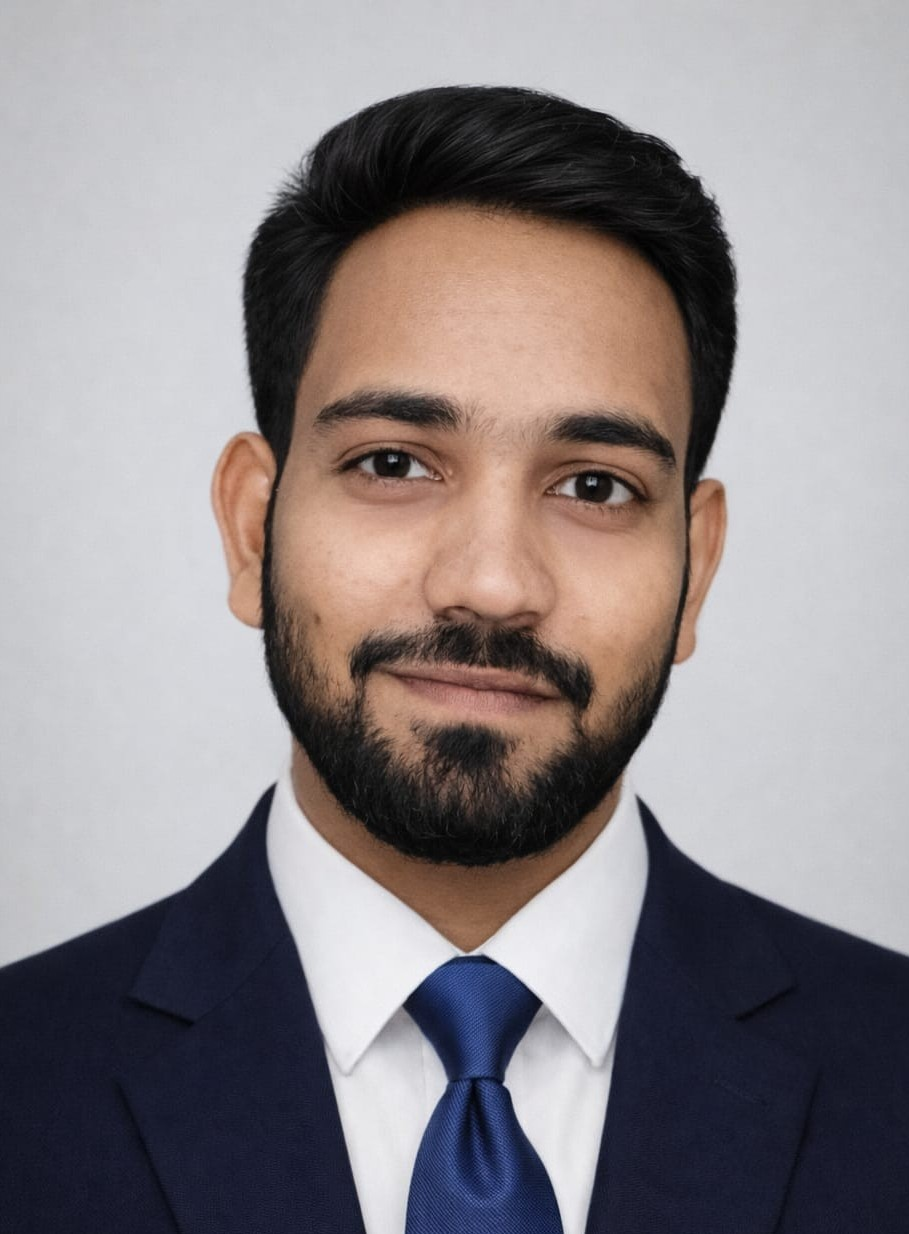
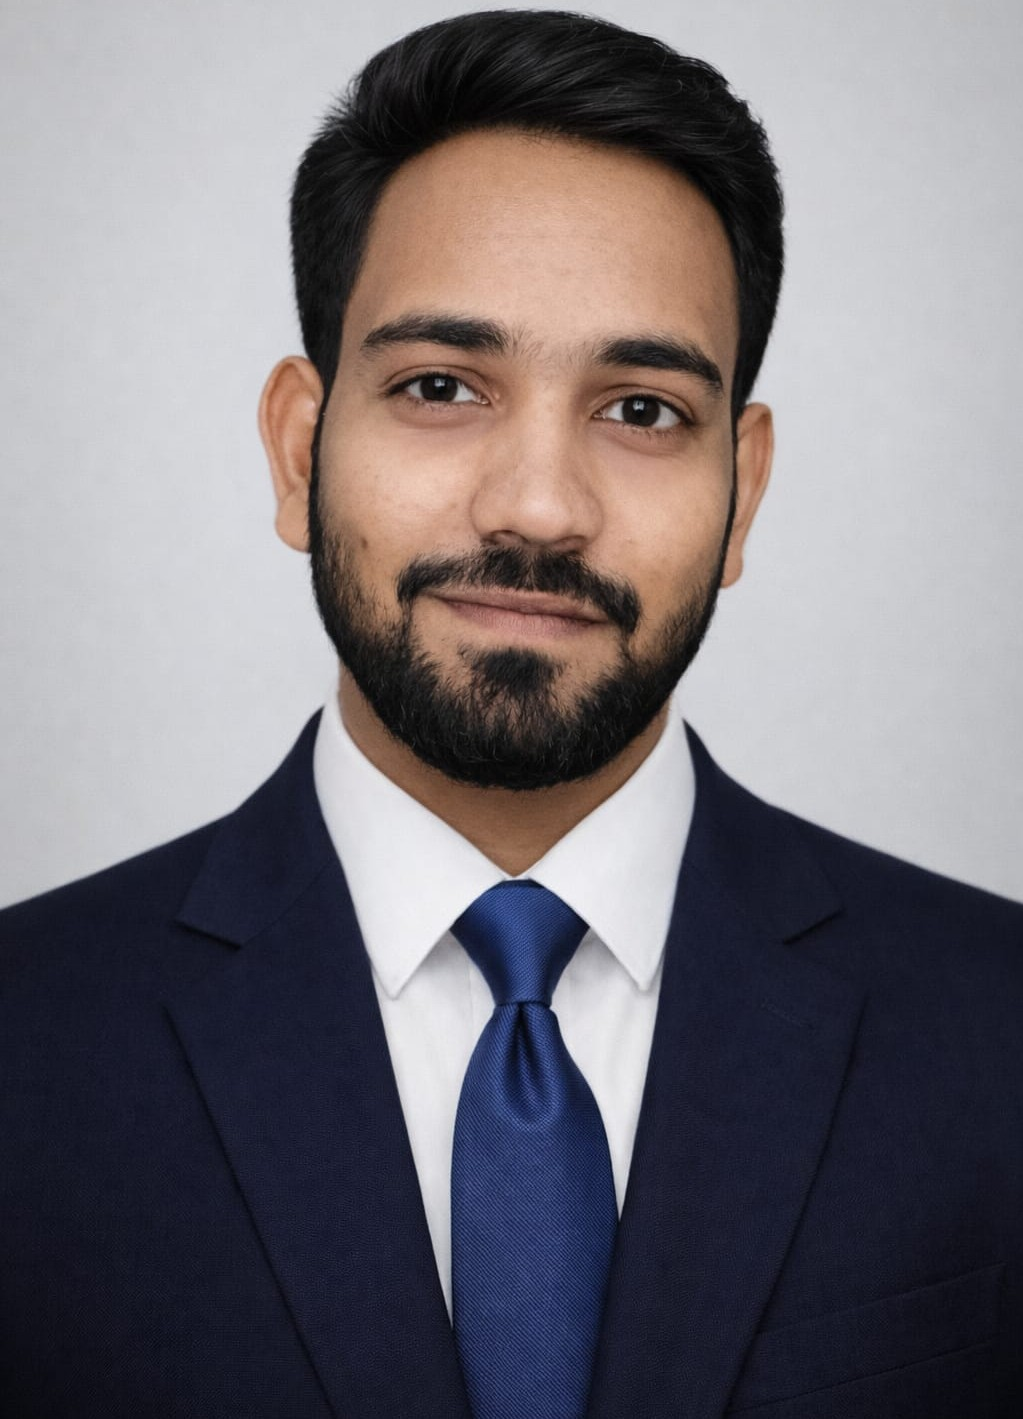
feat: add Team component to display team members with their details and a join CTA.

diff --git a/src/components/Team.tsx b/src/components/Team.tsx
@@ -56,45 +56,45 @@ const Team = () => {
           {teamMembers.map((member, index) => (
             <div
               key={member.id}
-              className="group bg-gradient-to-br from-white/90 to-secondary/40 rounded-3xl border border-border shadow-lg hover:shadow-2xl transition-all duration-500 relative flex flex-col items-center p-6 animate-float"
+              className="group h-full bg-gradient-to-br from-white/95 to-secondary/20 rounded-3xl border border-primary/10 shadow-md hover:shadow-xl transition-all duration-500 relative flex flex-col items-center p-8 gap-6 animate-float"
               style={{ animationDelay: `${index * 0.15}s` }}
             >
               {/* Member Photo */}
-              <div className="relative mb-4">
+              <div className="relative">
                 <img
                   src={member.image}
                   alt={member.name}
-                  className="w-32 h-32 object-cover object-top rounded-full border-4 border-primary shadow-xl group-hover:scale-105 transition-transform duration-500 bg-white"
-                  style={{ boxShadow: '0 8px 32px 0 rgba(31, 38, 135, 0.15)' }}
+                  className="w-32 h-32 object-cover object-top rounded-full border-4 border-primary/20 group-hover:border-primary shadow-lg group-hover:scale-105 transition-all duration-500 bg-white"
+                  style={{ boxShadow: '0 8px 32px 0 rgba(31, 38, 135, 0.10)' }}
                 />
                 {/* Social Links - appear on hover, floating above image */}
-                <div className="absolute -bottom-4 left-1/2 -translate-x-1/2 flex gap-3 opacity-0 group-hover:opacity-100 group-hover:-translate-y-2 transition-all duration-500">
+                <div className="absolute -bottom-2 left-1/2 -translate-x-1/2 flex gap-3 opacity-0 group-hover:opacity-100 group-hover:-translate-y-2 transition-all duration-500 z-10">
                   <a
                     href={member.social.linkedin}
-                    className="p-2 bg-white/90 rounded-full hover:bg-primary hover:text-white shadow transition-colors duration-300 border border-primary/20"
+                    className="p-2 bg-white rounded-full hover:bg-primary hover:text-white shadow-md transition-colors duration-300 border border-primary/10"
                     aria-label={`${member.name} LinkedIn`}
                   >
-                    <Linkedin className="h-5 w-5" />
+                    <Linkedin className="h-4 w-4" />
                   </a>
                   <a
                     href={member.social.instagram}
-                    className="p-2 bg-white/90 rounded-full hover:bg-primary hover:text-white shadow transition-colors duration-300 border border-primary/20"
+                    className="p-2 bg-white rounded-full hover:bg-primary hover:text-white shadow-md transition-colors duration-300 border border-primary/10"
                     aria-label={`${member.name} Instagram`}
                   >
-                    <Instagram className="h-5 w-5" />
+                    <Instagram className="h-4 w-4" />
                   </a>
                 </div>
               </div>
 
               {/* Member Info */}
-              <div className="flex-1 flex flex-col items-center text-center mt-2">
-                <h3 className="text-xl font-bold text-foreground mb-1">
+              <div className="w-full flex flex-col items-center text-center">
+                <h3 className="text-xl font-bold text-foreground mb-1 group-hover:text-primary transition-colors">
                   {member.name}
                 </h3>
-                <p className="text-primary font-medium mb-2">
+                <p className="text-primary/80 font-semibold text-sm uppercase tracking-wide mb-3">
                   {member.role}
                 </p>
-                <p className="text-muted-foreground text-sm leading-relaxed mb-2">
+                <p className="text-muted-foreground text-sm leading-relaxed">
                   {member.description}
                 </p>
               </div>
